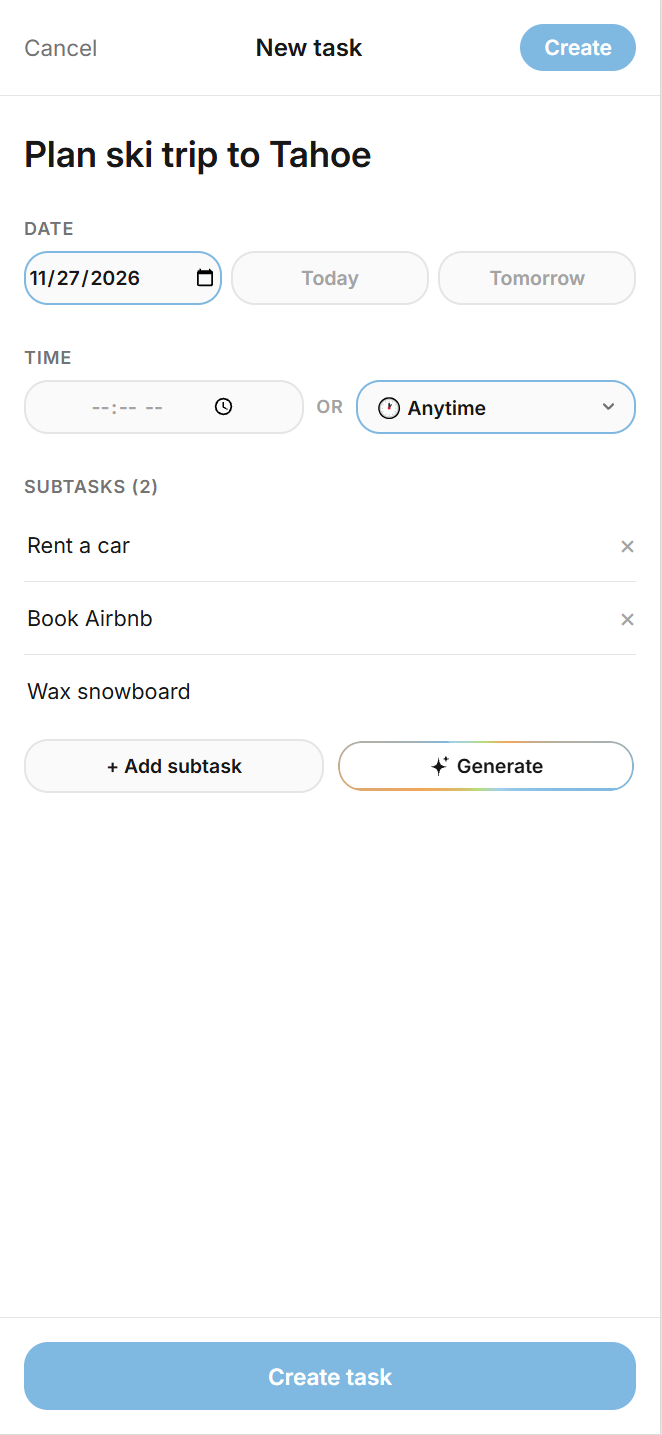
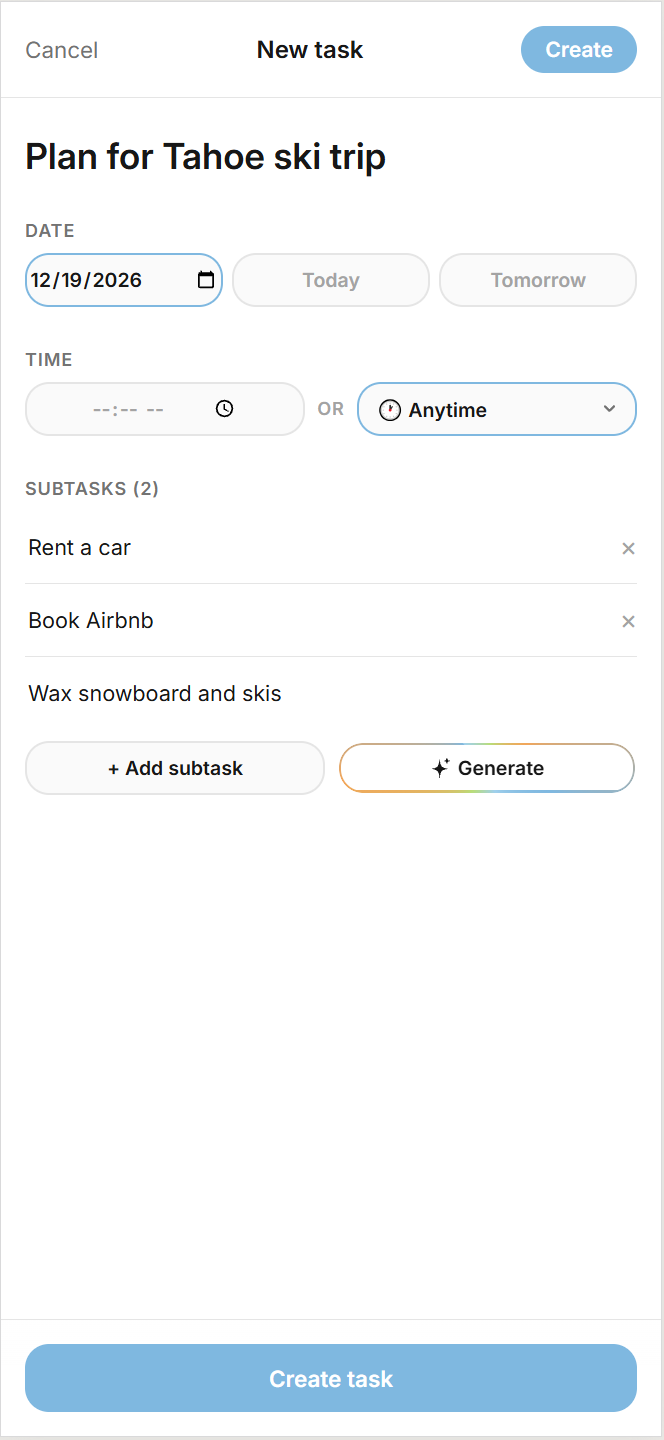
[chore] Update README

diff --git a/README.md b/README.md
@@ -1,4 +1,4 @@
-## Next — A simpler task manager
+## ⏭ Next — A simpler task manager
 
 There are many task managers help you organize work. Next focuses on the hardest
 part: getting started. Big tasks (clean the apartment, plan a trip) create
@@ -8,16 +8,9 @@ is especially true for people with ADHD, anxiety, or other causes of
 executive dysfunction.
 
 Next's answer: any task can be divided into a smaller one. Keep dividing
-until the next step feels almost impossible to avoid — by hand, or with
-Claude proposing a breakdown — and Next always surfaces that one next action
-instead of a wall of to-dos, rolling progress up the tree as subtasks get
-checked off.
-
-Creating a task opens its own screen, where you can break it down right
-away — by hand or by asking Claude to generate subtasks — and optionally
-give it a schedule: a specific date, a rough time of day, or an exact time.
-Scheduling is never required, so jotting down a quick reminder stays just
-as fast as planning something out.
+until the next step feels almost impossible to avoid — by hand or with
+✨AI✨. Next also simplifies task execution by surfacing the next action
+instead of a wall of to-dos.
 
 <table>
   <tr>
@@ -32,7 +25,7 @@ as fast as planning something out.
   </tr>
 </table>
 
-## Stack
+## 💻 Stack
 
 - Next.js 16 (App Router) + TypeScript + CSS Modules
 - Prisma 7 (driver adapter: `@prisma/adapter-pg`) + PostgreSQL
